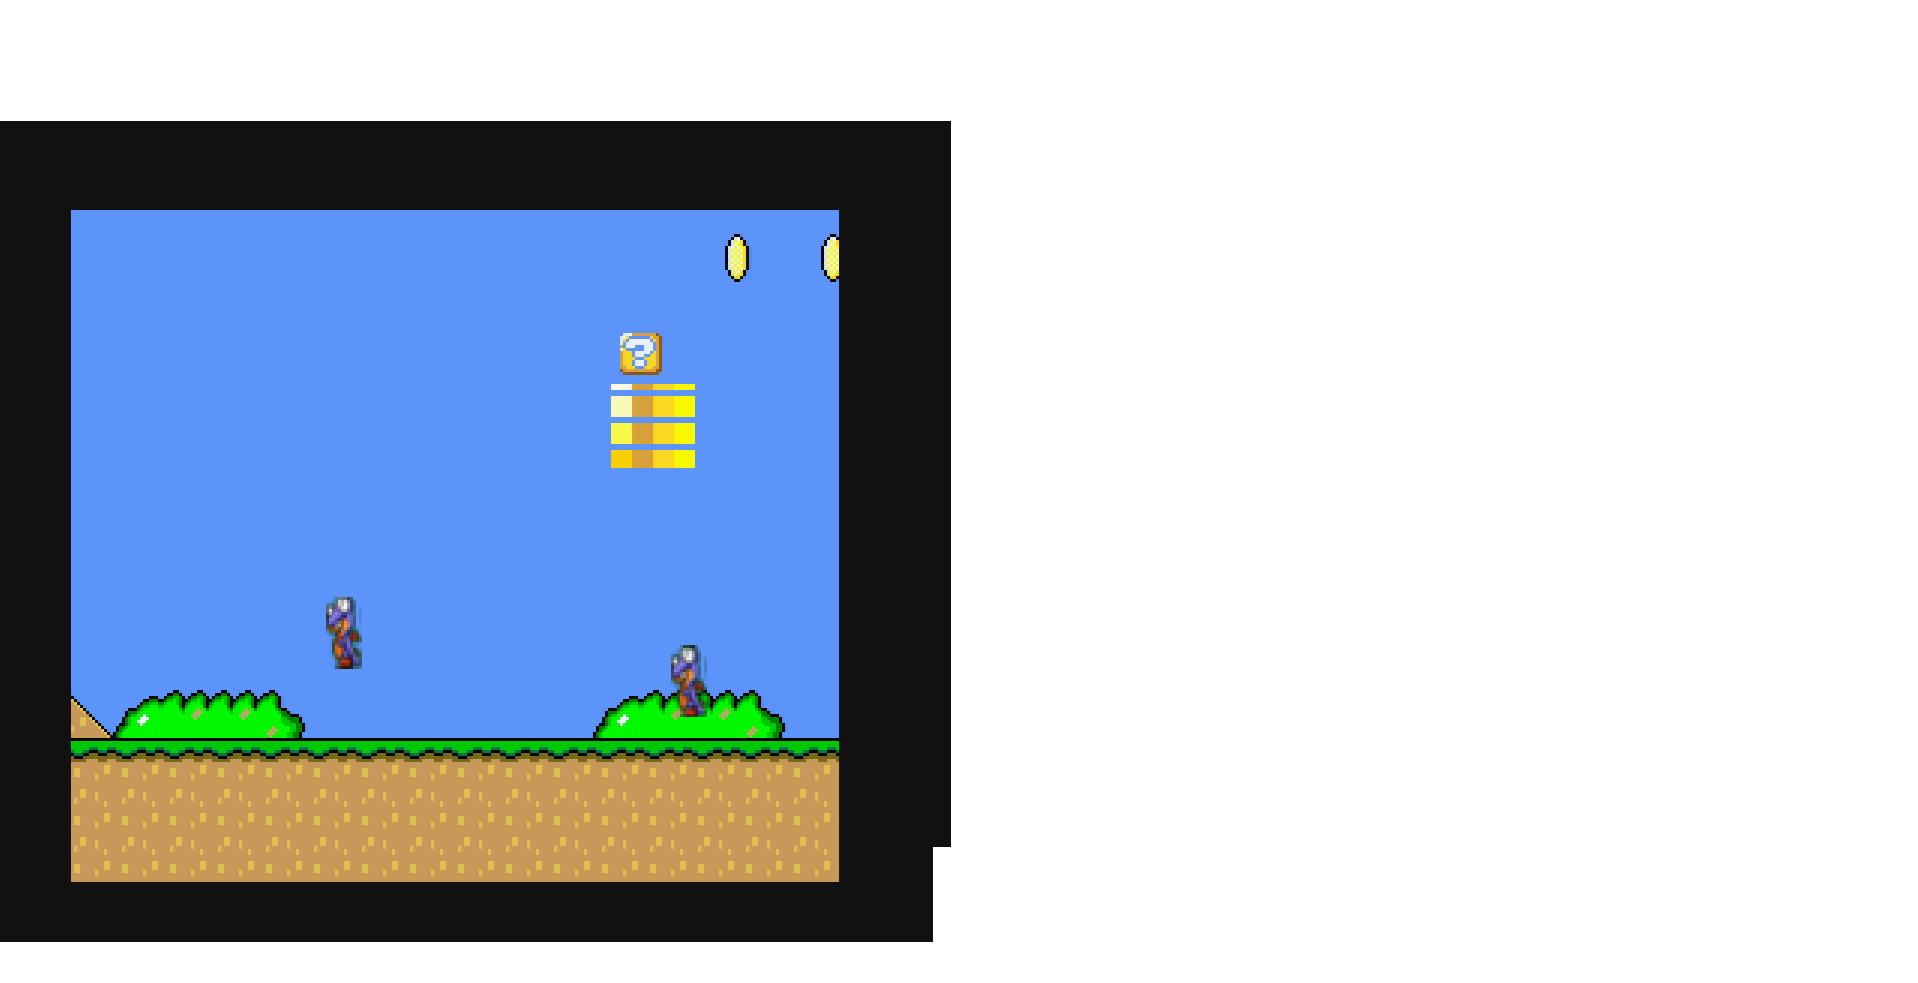
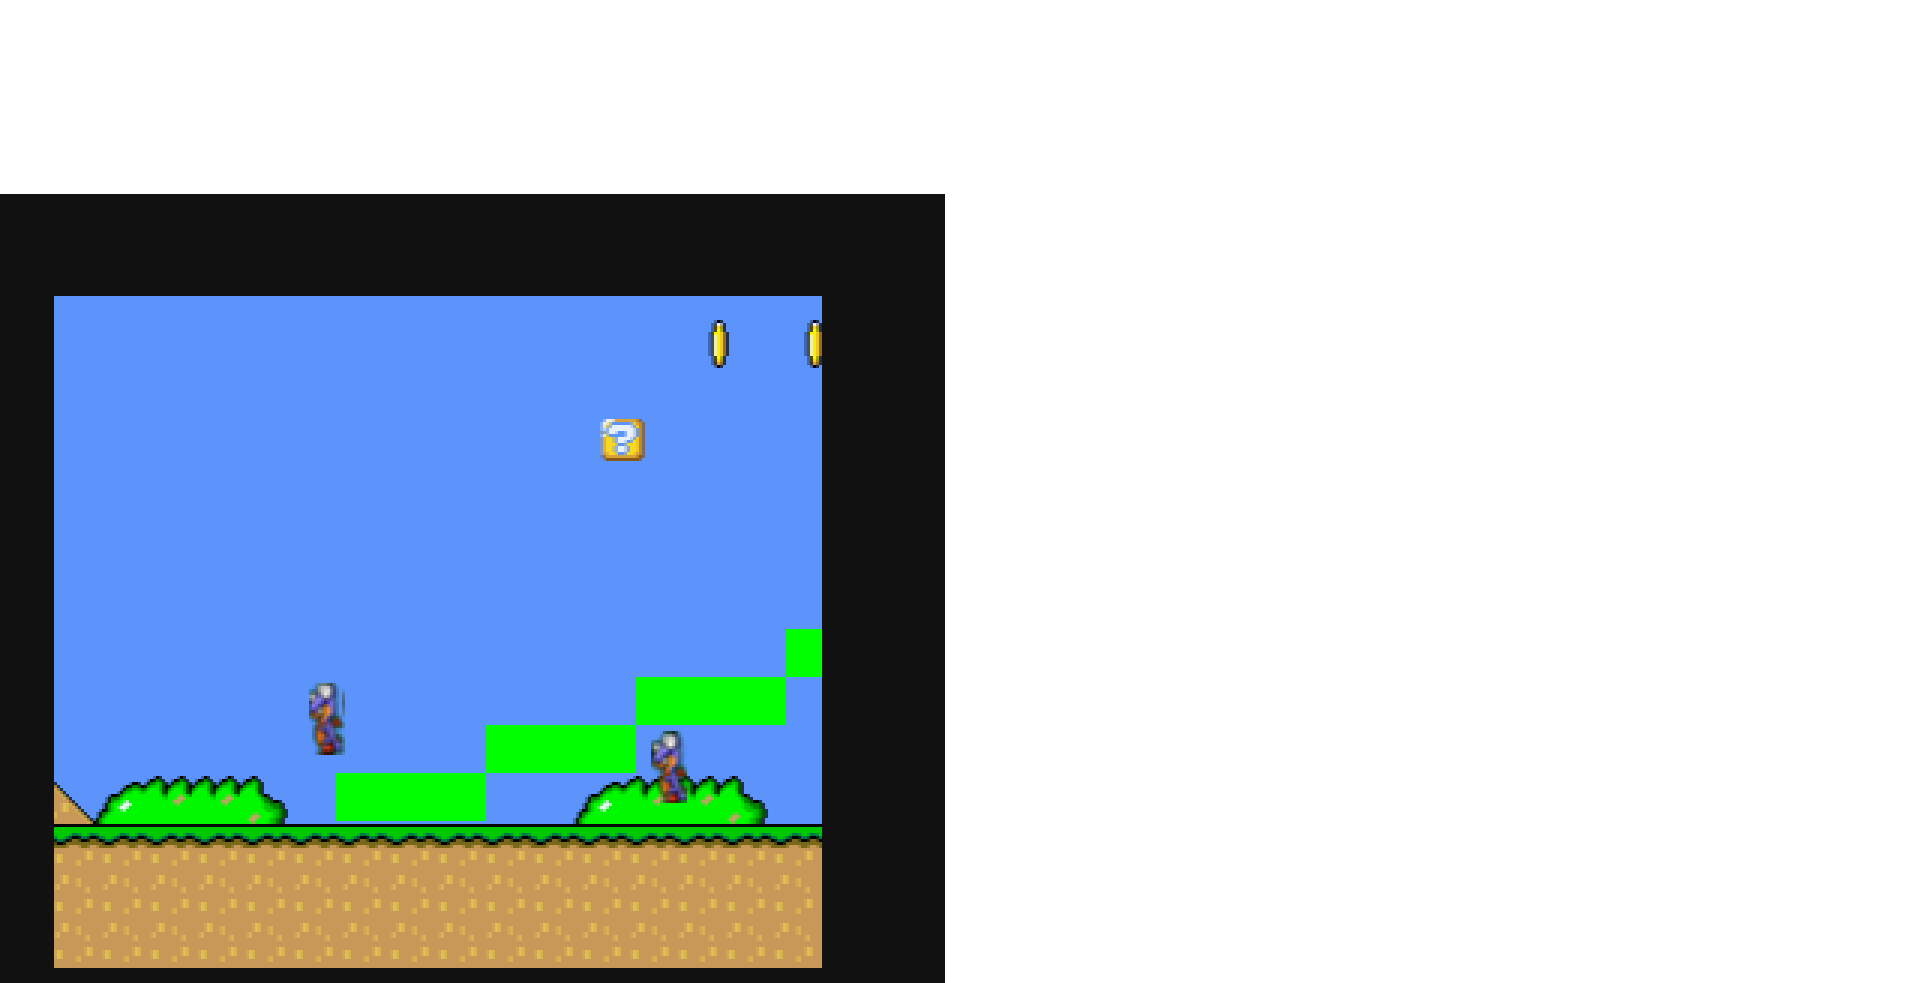
fix: Move hill collision to correct position (x=170-530)

Changed region(s): [[0.0, 0.1221, 0.5229, 1.0]]

diff --git a/projects/mario/static/game.html b/projects/mario/static/game.html
@@ -175,25 +175,25 @@
     &lt;qg:sprite id=&quot;ground&quot; width=&quot;5120&quot; height=&quot;32&quot; x=&quot;2560&quot; y=&quot;399&quot;
                tag=&quot;terrain&quot; body=&quot;static&quot; visible=&quot;false&quot; /&gt;
 
-    &lt;!-- Hill/slope collision (stair steps) - DEBUG: visible green --&gt;
-    &lt;qg:sprite id=&quot;hill1-step1&quot; width=&quot;50&quot; height=&quot;16&quot; x=&quot;425&quot; y=&quot;375&quot;
+    &lt;!-- Hill 1 collision (stair steps) - starts at x≈170 DEBUG: green --&gt;
+    &lt;qg:sprite id=&quot;hill1-step1&quot; width=&quot;40&quot; height=&quot;16&quot; x=&quot;190&quot; y=&quot;375&quot;
                tag=&quot;terrain&quot; body=&quot;static&quot; color=&quot;#00FF00&quot; /&gt;
-    &lt;qg:sprite id=&quot;hill1-step2&quot; width=&quot;50&quot; height=&quot;16&quot; x=&quot;475&quot; y=&quot;359&quot;
+    &lt;qg:sprite id=&quot;hill1-step2&quot; width=&quot;40&quot; height=&quot;16&quot; x=&quot;230&quot; y=&quot;359&quot;
                tag=&quot;terrain&quot; body=&quot;static&quot; color=&quot;#00FF00&quot; /&gt;
-    &lt;qg:sprite id=&quot;hill1-step3&quot; width=&quot;50&quot; height=&quot;16&quot; x=&quot;525&quot; y=&quot;343&quot;
+    &lt;qg:sprite id=&quot;hill1-step3&quot; width=&quot;40&quot; height=&quot;16&quot; x=&quot;270&quot; y=&quot;343&quot;
                tag=&quot;terrain&quot; body=&quot;static&quot; color=&quot;#00FF00&quot; /&gt;
-    &lt;qg:sprite id=&quot;hill1-step4&quot; width=&quot;50&quot; height=&quot;16&quot; x=&quot;575&quot; y=&quot;327&quot;
+    &lt;qg:sprite id=&quot;hill1-step4&quot; width=&quot;40&quot; height=&quot;16&quot; x=&quot;310&quot; y=&quot;327&quot;
                tag=&quot;terrain&quot; body=&quot;static&quot; color=&quot;#00FF00&quot; /&gt;
-    &lt;qg:sprite id=&quot;hill1-top&quot; width=&quot;80&quot; height=&quot;16&quot; x=&quot;640&quot; y=&quot;311&quot;
+    &lt;qg:sprite id=&quot;hill1-top&quot; width=&quot;60&quot; height=&quot;16&quot; x=&quot;360&quot; y=&quot;311&quot;
                tag=&quot;terrain&quot; body=&quot;static&quot; color=&quot;#00FF00&quot; /&gt;
     &lt;!-- Down slope --&gt;
-    &lt;qg:sprite id=&quot;hill1-down1&quot; width=&quot;50&quot; height=&quot;16&quot; x=&quot;705&quot; y=&quot;327&quot;
+    &lt;qg:sprite id=&quot;hill1-down1&quot; width=&quot;40&quot; height=&quot;16&quot; x=&quot;410&quot; y=&quot;327&quot;
                tag=&quot;terrain&quot; body=&quot;static&quot; color=&quot;#00FF00&quot; /&gt;
-    &lt;qg:sprite id=&quot;hill1-down2&quot; width=&quot;50&quot; height=&quot;16&quot; x=&quot;755&quot; y=&quot;343&quot;
+    &lt;qg:sprite id=&quot;hill1-down2&quot; width=&quot;40&quot; height=&quot;16&quot; x=&quot;450&quot; y=&quot;343&quot;
                tag=&quot;terrain&quot; body=&quot;static&quot; color=&quot;#00FF00&quot; /&gt;
-    &lt;qg:sprite id=&quot;hill1-down3&quot; width=&quot;50&quot; height=&quot;16&quot; x=&quot;805&quot; y=&quot;359&quot;
+    &lt;qg:sprite id=&quot;hill1-down3&quot; width=&quot;40&quot; height=&quot;16&quot; x=&quot;490&quot; y=&quot;359&quot;
                tag=&quot;terrain&quot; body=&quot;static&quot; color=&quot;#00FF00&quot; /&gt;
-    &lt;qg:sprite id=&quot;hill1-down4&quot; width=&quot;50&quot; height=&quot;16&quot; x=&quot;855&quot; y=&quot;375&quot;
+    &lt;qg:sprite id=&quot;hill1-down4&quot; width=&quot;40&quot; height=&quot;16&quot; x=&quot;530&quot; y=&quot;375&quot;
                tag=&quot;terrain&quot; body=&quot;static&quot; color=&quot;#00FF00&quot; /&gt;
 
     &lt;!-- Question blocks (matching image positions) --&gt;
@@ -719,92 +719,92 @@ document.addEventListener('keydown', function(e) {
   _sprites["ground"] = { id: "ground", sprite: _spr_ground, body: _body_ground, tag: "terrain", collisionHandlers: [], behaviors: [] };
 
   const _spr_hill1_step1 = new PIXI.Graphics();
-  _spr_hill1_step1.rect(-25.0, -8.0, 50.0, 16.0);
+  _spr_hill1_step1.rect(-20.0, -8.0, 40.0, 16.0);
   _spr_hill1_step1.fill({ color: 0x00FF00 });
-  _spr_hill1_step1.x = 425;
+  _spr_hill1_step1.x = 190;
   _spr_hill1_step1.y = 375;
   _cameraContainer.addChild(_spr_hill1_step1);
-  const _body_hill1_step1 = Matter.Bodies.rectangle(425, 375, 50, 16, { isStatic: true, restitution: 0.1, friction: 0.1, slop: 0.01 });
+  const _body_hill1_step1 = Matter.Bodies.rectangle(190, 375, 40, 16, { isStatic: true, restitution: 0.1, friction: 0.1, slop: 0.01 });
   _bodyToSprite[_body_hill1_step1.id] = "hill1-step1";
   _sprites["hill1-step1"] = { id: "hill1-step1", sprite: _spr_hill1_step1, body: _body_hill1_step1, tag: "terrain", collisionHandlers: [], behaviors: [] };
 
   const _spr_hill1_step2 = new PIXI.Graphics();
-  _spr_hill1_step2.rect(-25.0, -8.0, 50.0, 16.0);
+  _spr_hill1_step2.rect(-20.0, -8.0, 40.0, 16.0);
   _spr_hill1_step2.fill({ color: 0x00FF00 });
-  _spr_hill1_step2.x = 475;
+  _spr_hill1_step2.x = 230;
   _spr_hill1_step2.y = 359;
   _cameraContainer.addChild(_spr_hill1_step2);
-  const _body_hill1_step2 = Matter.Bodies.rectangle(475, 359, 50, 16, { isStatic: true, restitution: 0.1, friction: 0.1, slop: 0.01 });
+  const _body_hill1_step2 = Matter.Bodies.rectangle(230, 359, 40, 16, { isStatic: true, restitution: 0.1, friction: 0.1, slop: 0.01 });
   _bodyToSprite[_body_hill1_step2.id] = "hill1-step2";
   _sprites["hill1-step2"] = { id: "hill1-step2", sprite: _spr_hill1_step2, body: _body_hill1_step2, tag: "terrain", collisionHandlers: [], behaviors: [] };
 
   const _spr_hill1_step3 = new PIXI.Graphics();
-  _spr_hill1_step3.rect(-25.0, -8.0, 50.0, 16.0);
+  _spr_hill1_step3.rect(-20.0, -8.0, 40.0, 16.0);
   _spr_hill1_step3.fill({ color: 0x00FF00 });
-  _spr_hill1_step3.x = 525;
+  _spr_hill1_step3.x = 270;
   _spr_hill1_step3.y = 343;
   _cameraContainer.addChild(_spr_hill1_step3);
-  const _body_hill1_step3 = Matter.Bodies.rectangle(525, 343, 50, 16, { isStatic: true, restitution: 0.1, friction: 0.1, slop: 0.01 });
+  const _body_hill1_step3 = Matter.Bodies.rectangle(270, 343, 40, 16, { isStatic: true, restitution: 0.1, friction: 0.1, slop: 0.01 });
   _bodyToSprite[_body_hill1_step3.id] = "hill1-step3";
   _sprites["hill1-step3"] = { id: "hill1-step3", sprite: _spr_hill1_step3, body: _body_hill1_step3, tag: "terrain", collisionHandlers: [], behaviors: [] };
 
   const _spr_hill1_step4 = new PIXI.Graphics();
-  _spr_hill1_step4.rect(-25.0, -8.0, 50.0, 16.0);
+  _spr_hill1_step4.rect(-20.0, -8.0, 40.0, 16.0);
   _spr_hill1_step4.fill({ color: 0x00FF00 });
-  _spr_hill1_step4.x = 575;
+  _spr_hill1_step4.x = 310;
   _spr_hill1_step4.y = 327;
   _cameraContainer.addChild(_spr_hill1_step4);
-  const _body_hill1_step4 = Matter.Bodies.rectangle(575, 327, 50, 16, { isStatic: true, restitution: 0.1, friction: 0.1, slop: 0.01 });
+  const _body_hill1_step4 = Matter.Bodies.rectangle(310, 327, 40, 16, { isStatic: true, restitution: 0.1, friction: 0.1, slop: 0.01 });
   _bodyToSprite[_body_hill1_step4.id] = "hill1-step4";
   _sprites["hill1-step4"] = { id: "hill1-step4", sprite: _spr_hill1_step4, body: _body_hill1_step4, tag: "terrain", collisionHandlers: [], behaviors: [] };
 
   const _spr_hill1_top = new PIXI.Graphics();
-  _spr_hill1_top.rect(-40.0, -8.0, 80.0, 16.0);
+  _spr_hill1_top.rect(-30.0, -8.0, 60.0, 16.0);
   _spr_hill1_top.fill({ color: 0x00FF00 });
-  _spr_hill1_top.x = 640;
+  _spr_hill1_top.x = 360;
   _spr_hill1_top.y = 311;
   _cameraContainer.addChild(_spr_hill1_top);
-  const _body_hill1_top = Matter.Bodies.rectangle(640, 311, 80, 16, { isStatic: true, restitution: 0.1, friction: 0.1, slop: 0.01 });
+  const _body_hill1_top = Matter.Bodies.rectangle(360, 311, 60, 16, { isStatic: true, restitution: 0.1, friction: 0.1, slop: 0.01 });
   _bodyToSprite[_body_hill1_top.id] = "hill1-top";
   _sprites["hill1-top"] = { id: "hill1-top", sprite: _spr_hill1_top, body: _body_hill1_top, tag: "terrain", collisionHandlers: [], behaviors: [] };
 
   const _spr_hill1_down1 = new PIXI.Graphics();
-  _spr_hill1_down1.rect(-25.0, -8.0, 50.0, 16.0);
+  _spr_hill1_down1.rect(-20.0, -8.0, 40.0, 16.0);
   _spr_hill1_down1.fill({ color: 0x00FF00 });
-  _spr_hill1_down1.x = 705;
+  _spr_hill1_down1.x = 410;
   _spr_hill1_down1.y = 327;
   _cameraContainer.addChild(_spr_hill1_down1);
-  const _body_hill1_down1 = Matter.Bodies.rectangle(705, 327, 50, 16, { isStatic: true, restitution: 0.1, friction: 0.1, slop: 0.01 });
+  const _body_hill1_down1 = Matter.Bodies.rectangle(410, 327, 40, 16, { isStatic: true, restitution: 0.1, friction: 0.1, slop: 0.01 });
   _bodyToSprite[_body_hill1_down1.id] = "hill1-down1";
   _sprites["hill1-down1"] = { id: "hill1-down1", sprite: _spr_hill1_down1, body: _body_hill1_down1, tag: "terrain", collisionHandlers: [], behaviors: [] };
 
   const _spr_hill1_down2 = new PIXI.Graphics();
-  _spr_hill1_down2.rect(-25.0, -8.0, 50.0, 16.0);
+  _spr_hill1_down2.rect(-20.0, -8.0, 40.0, 16.0);
   _spr_hill1_down2.fill({ color: 0x00FF00 });
-  _spr_hill1_down2.x = 755;
+  _spr_hill1_down2.x = 450;
   _spr_hill1_down2.y = 343;
   _cameraContainer.addChild(_spr_hill1_down2);
-  const _body_hill1_down2 = Matter.Bodies.rectangle(755, 343, 50, 16, { isStatic: true, restitution: 0.1, friction: 0.1, slop: 0.01 });
+  const _body_hill1_down2 = Matter.Bodies.rectangle(450, 343, 40, 16, { isStatic: true, restitution: 0.1, friction: 0.1, slop: 0.01 });
   _bodyToSprite[_body_hill1_down2.id] = "hill1-down2";
   _sprites["hill1-down2"] = { id: "hill1-down2", sprite: _spr_hill1_down2, body: _body_hill1_down2, tag: "terrain", collisionHandlers: [], behaviors: [] };
 
   const _spr_hill1_down3 = new PIXI.Graphics();
-  _spr_hill1_down3.rect(-25.0, -8.0, 50.0, 16.0);
+  _spr_hill1_down3.rect(-20.0, -8.0, 40.0, 16.0);
   _spr_hill1_down3.fill({ color: 0x00FF00 });
-  _spr_hill1_down3.x = 805;
+  _spr_hill1_down3.x = 490;
   _spr_hill1_down3.y = 359;
   _cameraContainer.addChild(_spr_hill1_down3);
-  const _body_hill1_down3 = Matter.Bodies.rectangle(805, 359, 50, 16, { isStatic: true, restitution: 0.1, friction: 0.1, slop: 0.01 });
+  const _body_hill1_down3 = Matter.Bodies.rectangle(490, 359, 40, 16, { isStatic: true, restitution: 0.1, friction: 0.1, slop: 0.01 });
   _bodyToSprite[_body_hill1_down3.id] = "hill1-down3";
   _sprites["hill1-down3"] = { id: "hill1-down3", sprite: _spr_hill1_down3, body: _body_hill1_down3, tag: "terrain", collisionHandlers: [], behaviors: [] };
 
   const _spr_hill1_down4 = new PIXI.Graphics();
-  _spr_hill1_down4.rect(-25.0, -8.0, 50.0, 16.0);
+  _spr_hill1_down4.rect(-20.0, -8.0, 40.0, 16.0);
   _spr_hill1_down4.fill({ color: 0x00FF00 });
-  _spr_hill1_down4.x = 855;
+  _spr_hill1_down4.x = 530;
   _spr_hill1_down4.y = 375;
   _cameraContainer.addChild(_spr_hill1_down4);
-  const _body_hill1_down4 = Matter.Bodies.rectangle(855, 375, 50, 16, { isStatic: true, restitution: 0.1, friction: 0.1, slop: 0.01 });
+  const _body_hill1_down4 = Matter.Bodies.rectangle(530, 375, 40, 16, { isStatic: true, restitution: 0.1, friction: 0.1, slop: 0.01 });
   _bodyToSprite[_body_hill1_down4.id] = "hill1-down4";
   _sprites["hill1-down4"] = { id: "hill1-down4", sprite: _spr_hill1_down4, body: _body_hill1_down4, tag: "terrain", collisionHandlers: [], behaviors: [] };
 
